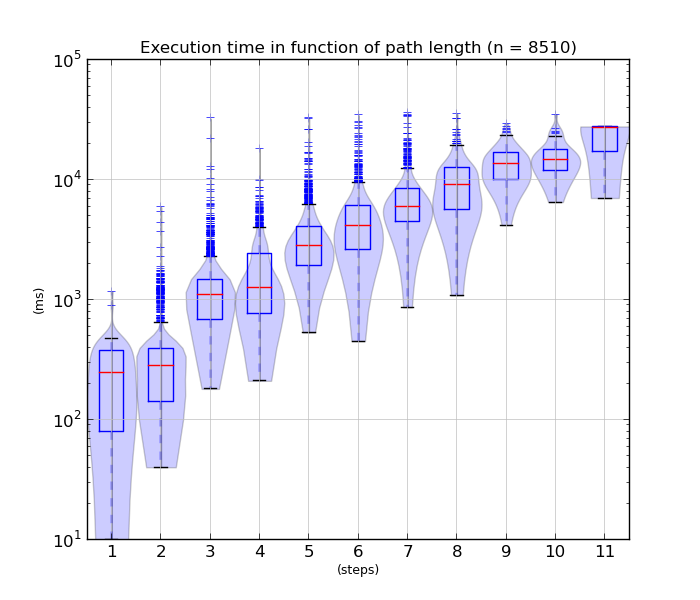
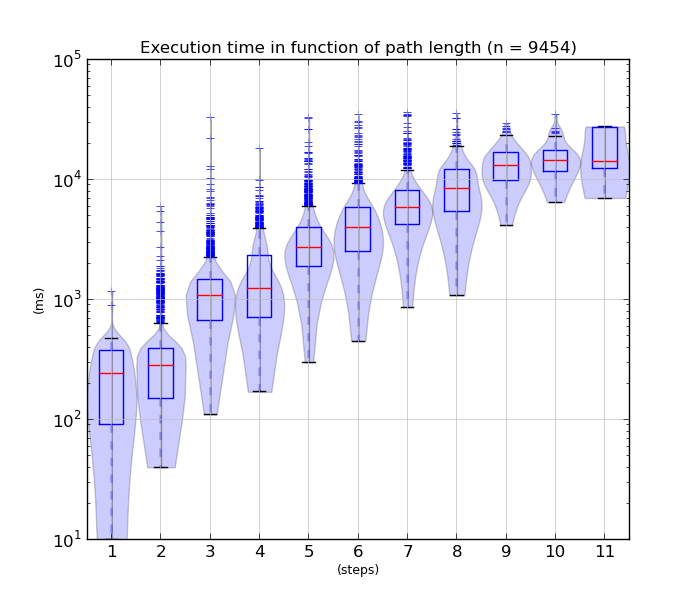
udpated plots

diff --git a/EiCGraphAlgo/sindice/randompath.py b/EiCGraphAlgo/sindice/randompath.py
@@ -90,16 +90,16 @@ sources = [
             #'http://dbpedia.org/resource/Bryan_Adams',
             #'http://dbpedia.org/resource/Arnold_Schoenberg',
             #'http://dbpedia.org/resource/Carl_Stalling',
-            'http://dbpedia.org/resource/Renaud',
-            'http://dbpedia.org/resource/Dean_Martin',
-            'http://dbpedia.org/resource/Shania_Twain',
-            'http://dbpedia.org/resource/Enrique_Iglesias',
-            'http://dbpedia.org/resource/Marvin_Gaye',
-            'http://dbpedia.org/resource/Ashley_Tisdale',
-            'http://dbpedia.org/resource/Duke_Ellington',
-            'http://dbpedia.org/resource/Diana_Ross',
-            'http://dbpedia.org/resource/Volvo',
-            'http://dbpedia.org/resource/BMW',
+            #'http://dbpedia.org/resource/Renaud',
+            #'http://dbpedia.org/resource/Dean_Martin',
+            #'http://dbpedia.org/resource/Shania_Twain',
+            #'http://dbpedia.org/resource/Enrique_Iglesias',
+            #'http://dbpedia.org/resource/Marvin_Gaye',
+            #'http://dbpedia.org/resource/Ashley_Tisdale',
+            #'http://dbpedia.org/resource/Duke_Ellington',
+            #'http://dbpedia.org/resource/Diana_Ross',
+            #'http://dbpedia.org/resource/Volvo',
+            #'http://dbpedia.org/resource/BMW',
             'http://dbpedia.org/resource/Aston_Martin',
             'http://dbpedia.org/resource/Mickey_Mouse',
             'http://dbpedia.org/resource/Mercedes-Benz',
